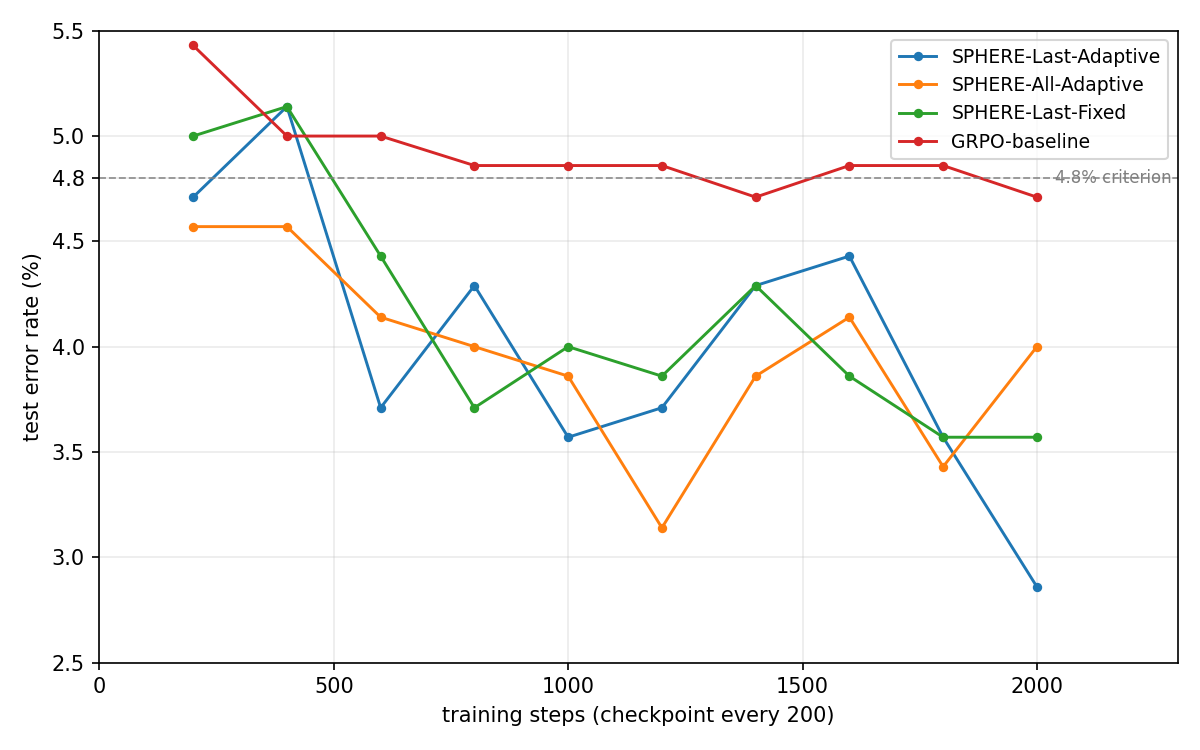
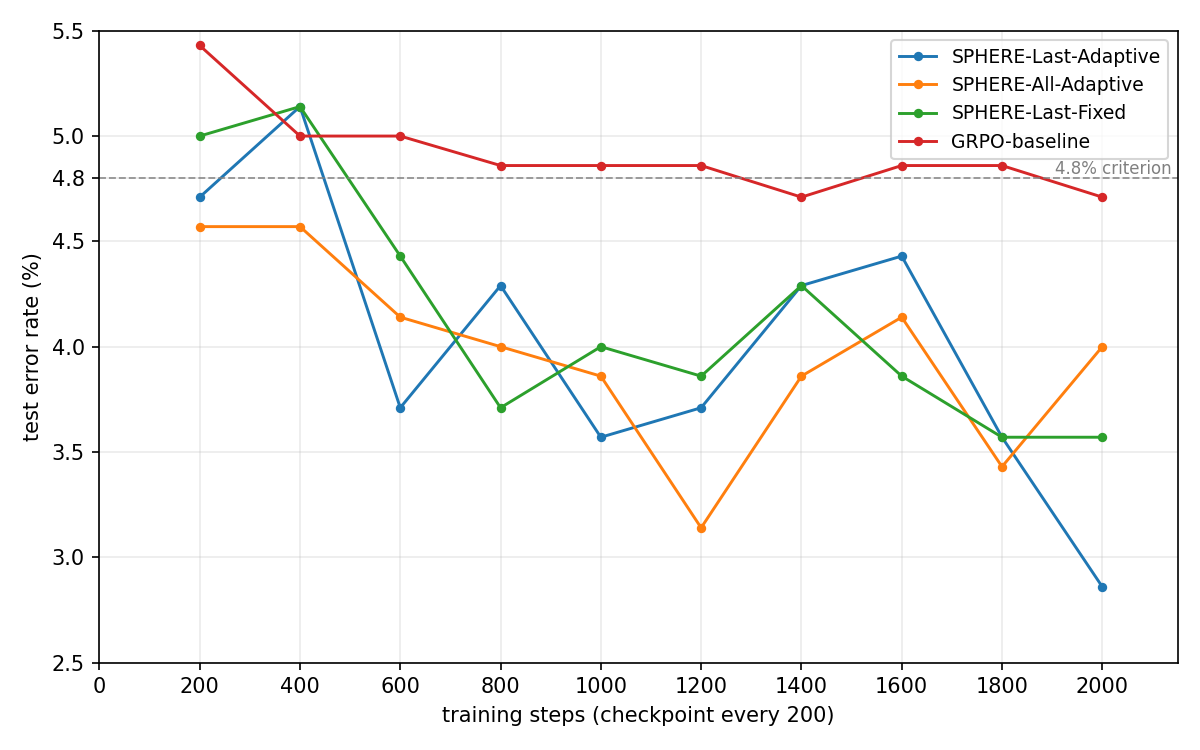
error-rate figure: start the curve at step 0 with the untrained model (100% error), so the plot shows the whole learning trajectory instead of only the post-training band; keep the zoomed panel for the 4.8% crossing

diff --git a/scripts/plot_nm_curves.py b/scripts/plot_nm_curves.py
@@ -1,17 +1,19 @@
 #!/usr/bin/env python3
 """生成 test 错误率-训练步数曲线（两张）：
-  SNIPS/logs/error-rate-curves.png        纵轴 0 起，看整体水平
-  SNIPS/logs/error-rate-curves-zoom.png   放大到 2.5–5.5%，看 4.8% 判据线的穿越位置
+
+  SNIPS/logs/error-rate-curves.png        横轴从 0 步（训练前模型，错误率 100%）画起
+  SNIPS/logs/error-rate-curves-zoom.png   放大 2.5–5.5%，看 4.8% 判据线的穿越位置
 
 数据 = SNIPS/logs/nm-sweep.csv（scripts/nm_sweep.sh 逐检查点扫描）：
-每 200 步保存的检查点加载权重后跑一次 test 集（700 条）得到的
-意图准确率，换算成错误率画曲线，并画出 4.8% 判据线。
+每 200 步保存的检查点加载权重后跑一次 test 集（700 条）得到的意图准确率，
+换算成错误率画曲线；第 0 步用训练前模型（RandomInit）的实测错误率，四条曲线同一起点。
 
 用法（仓库根目录）：
   python scripts/plot_nm_curves.py
 """
 import csv
 import os
+import re
 
 import matplotlib
 
@@ -22,10 +24,27 @@ LOGS = os.path.join(os.path.dirname(os.path.abspath(__file__)), "..", "SNIPS", "
 MODELS = ["SPHERE-Last-Adaptive", "SPHERE-All-Adaptive",
           "SPHERE-Last-Fixed", "GRPO-baseline"]
 THRESHOLDS = [(4.8, "4.8% criterion")]
+INIT_ERROR_FALLBACK = 100.0
+
+
+def init_error():
+    """训练前模型（RandomInit）的实测错误率；从 evaluate-summary.txt 读，读不到按 100%。"""
+    path = os.path.join(LOGS, "evaluate-summary.txt")
+    try:
+        with open(path, encoding="utf-8") as f:
+            for line in f:
+                if line.startswith("RandomInit"):
+                    m = re.search(r"ERROR_RATE=([\d.]+)%", line)
+                    if m:
+                        return float(m.group(1))
+    except OSError:
+        pass
+    return INIT_ERROR_FALLBACK
 
 
 def load():
-    data = {m: ([], []) for m in MODELS}
+    start = init_error()
+    data = {m: ([0], [start]) for m in MODELS}  # 第 0 步 = 训练前模型
     with open(os.path.join(LOGS, "nm-sweep.csv")) as f:
         for row in csv.DictReader(f):
             m = row["model"]
@@ -38,22 +57,30 @@ def load():
     return data
 
 
-def draw(data, ylim, filename, y_ticks):
+def draw(data, ylim, filename, y_ticks, note=None, skip_step0=False):
     fig, ax = plt.subplots(figsize=(8, 5))
     for m in MODELS:
         steps, errs = data[m]
+        if skip_step0:
+            steps, errs = steps[1:], errs[1:]
         ax.plot(steps, errs, marker="o", markersize=3.5, linewidth=1.4, label=m)
     for y, label in THRESHOLDS:
         ax.axhline(y, linestyle="--", linewidth=0.9, color="gray", alpha=0.8)
-        ax.text(0.995, y, label, fontsize=8, color="gray", va="center",
+        ax.text(0.995, y, label, fontsize=8, color="gray", va="bottom",
                 ha="right", transform=ax.get_yaxis_transform())
     ax.set_xlabel("training steps (checkpoint every 200)")
     ax.set_ylabel("test error rate (%)")
-    ax.set_xlim(0, 2300)
+    ax.set_xlim(0, 2150)
+    ax.set_xticks(range(0, 2001, 200))
     ax.set_ylim(*ylim)
     ax.set_yticks(y_ticks)
     ax.grid(True, alpha=0.25)
-    ax.legend(loc="upper right", fontsize=9)
+    ax.legend(loc="center right" if not skip_step0 else "upper right", fontsize=9)
+    if note:
+        ax.annotate(note, xy=(1.5, init_error()), xytext=(0.07, 0.88),
+                    textcoords="axes fraction", fontsize=9, color="#444444",
+                    arrowprops=dict(arrowstyle="->", color="#888888", lw=1.0,
+                                    shrinkB=6))
     fig.tight_layout()
     out = os.path.join(LOGS, filename)
     fig.savefig(out, dpi=150)
@@ -63,12 +90,12 @@ def draw(data, ylim, filename, y_ticks):
 
 def main():
     data = load()
-    # 整体：纵轴从 0 起
-    draw(data, (0, 6.2), "error-rate-curves.png",
-         [0, 1, 2, 3, 4, 4.8, 5, 6])
-    # 放大：只看 2.5–5.5%，4.8% 判据线和穿越位置更清楚
+    # 全局：从第 0 步（训练前模型，错误率约 100%）一路降到个位数
+    draw(data, (0, 105), "error-rate-curves.png", [0, 20, 40, 60, 80, 100],
+         note="untrained model: error rate 100%")
+    # 放大：只看 200 步以后、2.5–5.5%，判据线穿越位置一目了然
     draw(data, (2.5, 5.5), "error-rate-curves-zoom.png",
-         [2.5, 3.0, 3.5, 4.0, 4.5, 4.8, 5.0, 5.5])
+         [2.5, 3.0, 3.5, 4.0, 4.5, 4.8, 5.0, 5.5], skip_step0=True)
 
 
 if __name__ == "__main__":

diff --git a/SNIPS/logs/README.md b/SNIPS/logs/README.md
@@ -3,8 +3,8 @@
 每个模型一个子目录，含 `curves.png` 训练曲线图与 `curves.csv` 逐 step
 数据，生成脚本为 `scripts/plot_songce_curves.py`。`curves-all.png` 为
 全部已训模型的对比总图。`error-rate-curves.png` 为 test 错误率-训练
-步数曲线（纵轴 0 起），`error-rate-curves-zoom.png` 是判据线附近的放大版，
-两者是高效性判据的可视化。`evaluate.py` 的汇总输出写在本目录
+步数曲线（从第 0 步的训练前模型 100% 画起），`error-rate-curves-zoom.png` 是判据线
+附近的放大版，两者是高效性判据的可视化。`evaluate.py` 的汇总输出写在本目录
 `evaluate-summary.txt`。
 
 ![全部模型训练曲线对比](curves-all.png)
@@ -48,7 +48,8 @@ GRPO 基线到 1400 步才达到，项目算法所需训练步数少于基线。
 
 ![test 错误率-训练步数曲线](error-rate-curves.png)
 
-纵轴 0 起看整体水平；判据线附近的穿越位置看放大图：
+曲线从第 0 步起：训练前模型错误率 100%，200 步时四条曲线都已降到 5% 附近。
+判据线附近的穿越位置看放大图：
 
 ![test 错误率-训练步数曲线（放大）](error-rate-curves-zoom.png)
 

diff --git a/README.md b/README.md
@@ -72,8 +72,8 @@ rsync -a --exclude 'step*' --exclude 'training-log.jsonl' --exclude 'evidence.js
 
    ![test 错误率-训练步数曲线](SNIPS/logs/error-rate-curves.png)
 
-   纵轴 0 起看整体水平，判据线附近的穿越位置见放大图
-   `SNIPS/logs/error-rate-curves-zoom.png`。
+   曲线从第 0 步画起：训练前模型错误率 **100%**（准确率 0%），训练后降到个位数。
+   判据线附近的穿越位置见放大图 `SNIPS/logs/error-rate-curves-zoom.png`。
 
    逐检查点的原始评测数据：
 
